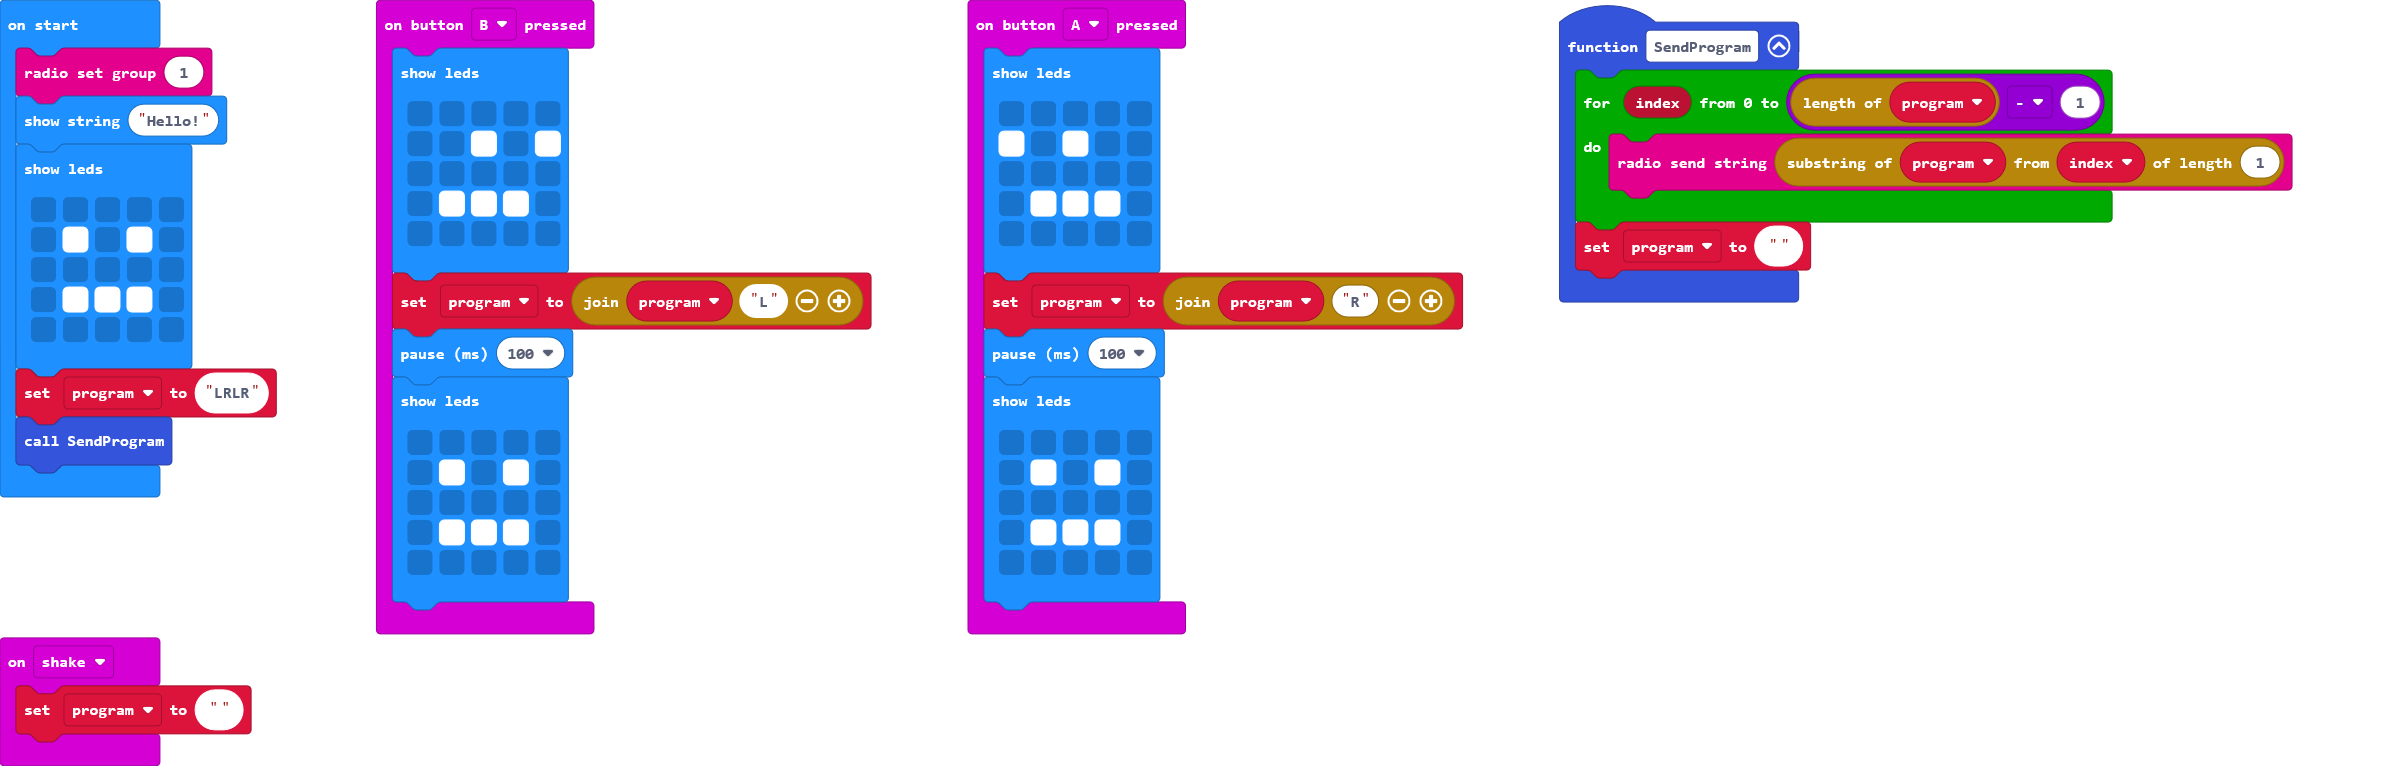
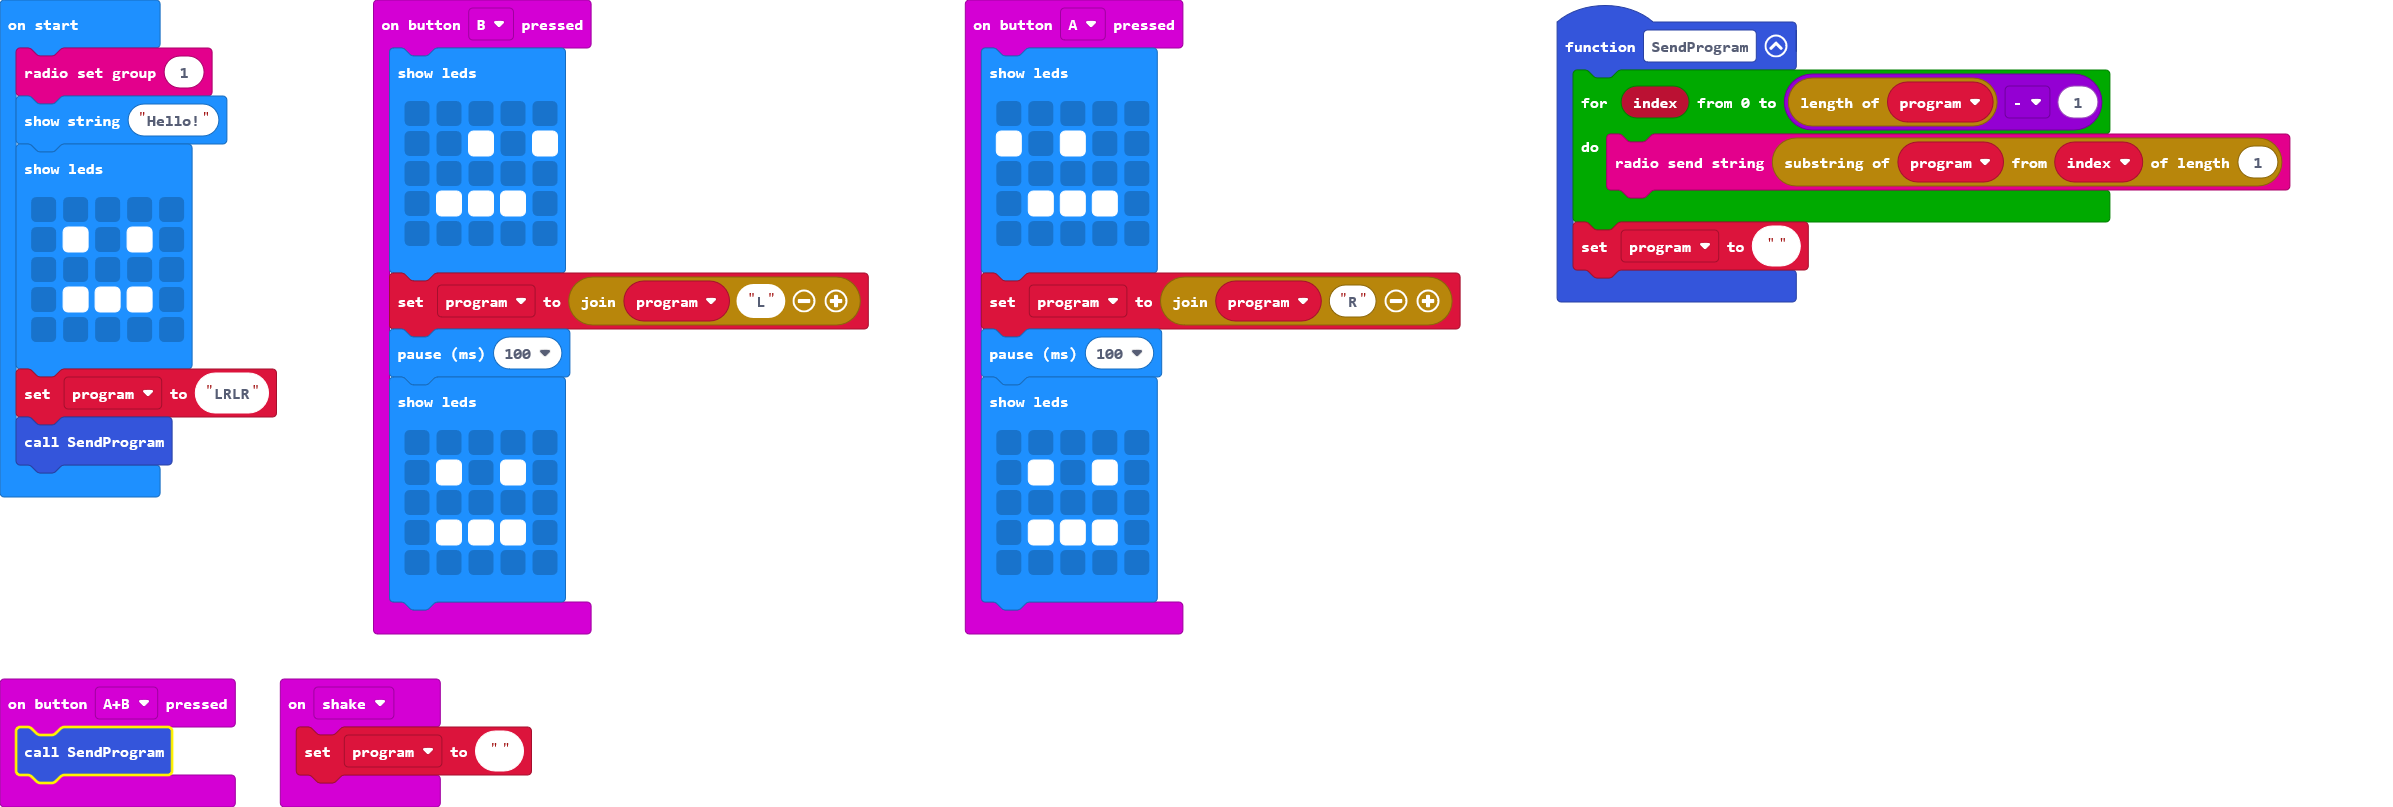
Update main.blocks, main.ts

diff --git a/main.ts b/main.ts
@@ -22,6 +22,9 @@ input.onButtonPressed(Button.A, function () {
         . . . . .
         `)
 })
+input.onButtonPressed(Button.AB, function () {
+    SendProgram()
+})
 input.onButtonPressed(Button.B, function () {
     basic.showLeds(`
         . . . . .
